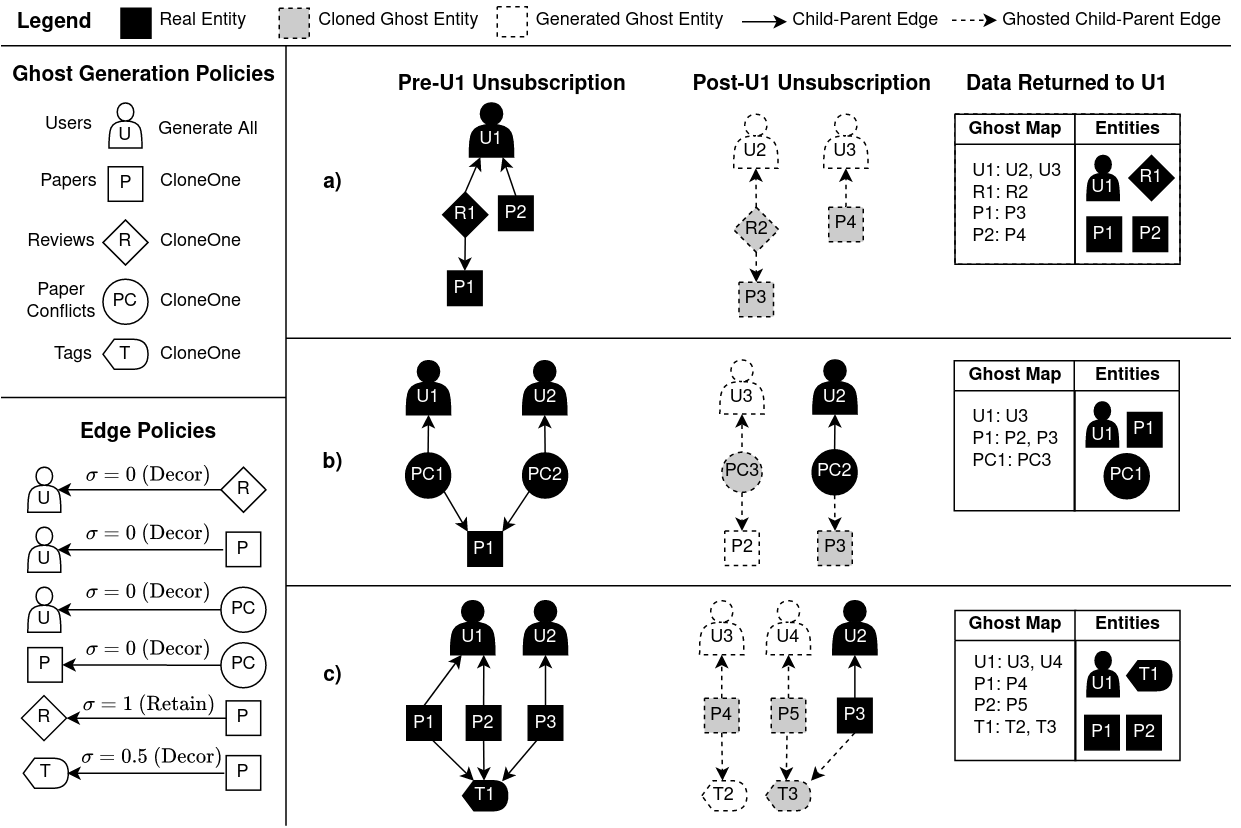
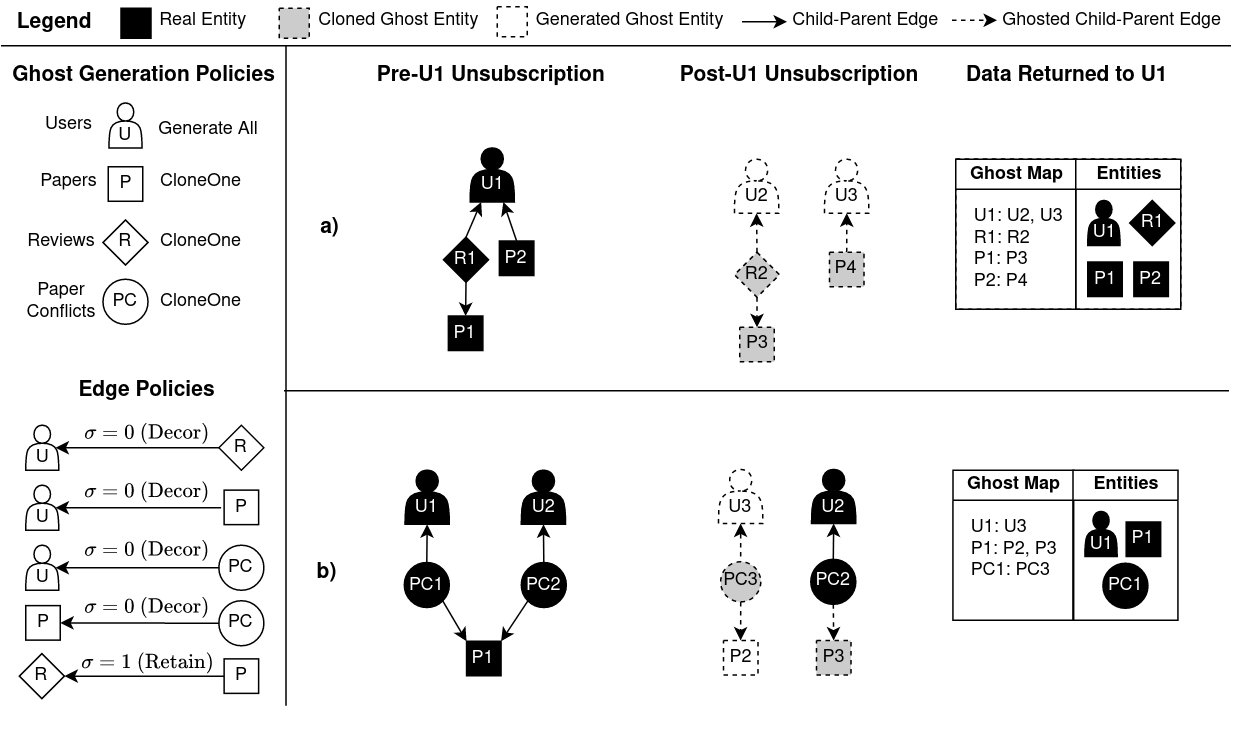
figure of algorithm

diff --git a/hotos21/design.tex b/hotos21/design.tex
@@ -1,29 +1,6 @@
 %-------------------------------------------------------------------------------
 \section{Design}
 %-------------------------------------------------------------------------------
-\begin{figure*}[ht!]
-    \centering
-    \includegraphics[width=\textwidth]{img/decor_hotcrp}
-
-    \caption{Pre- and post-unsubscription state of user, paper, review, paper conflict, and paper
-    tag entities based on a simplified variant of the HotCRP schema. 
-    For clarity, ghost generation policies are per-entity instead of per-entity
-    attribute, and tags are directly correlated with papers instead of connected via paper-tag
-    entities. \\ \\ 
-    \textbf{(a)} \sys decorrelates user-review and user-paper edges, and retains
-    review-paper edges, generating ghost users randomly, but cloning each review and paper. \\ \\
-    \textbf{(b)} \sys decorrelates user-conflict edges and sensitive conflict-paper edges. The ghost
-    paper associated with non-sensitive conflicts is a clone of the original; \sys generates a
-    default placeholder paper as the ghost paper parent for the sensitive conflict.  \\ \\
-    \textbf{(c)} \sys decorrelates paper-tag edges only enough that the proportion of sensitive
-    papers is at most the sensitivity threshold of 0.5. \sys retains one correlation between a
-    sensitive paper (P2) and the parent tag T1, and decorrelates the other paper (P1) from T1.  \sys
-    clones each sensitive paper to generate ghosts P4 and P5. \sys generates a cloned ghost tag T3
-    to remain associated with papers P3 and P5, and creates a default placeholder tag T2 as a ghost
-    parent tag for paper P4.}
-    \label{fig:hotcrp}
-\end{figure*}
-
 \sys's design allows developers to capture exactly which data contents, and which data correlations may be
 identity-sensitive. \sys models an application's data as a graph of \emph{entity} nodes and edges.
 Each entity type corresponds to an application datatable, such as a users, papers, or reviews table.
@@ -220,8 +197,20 @@ reduces the amount of user-side storage required for resubscription when the dat
 re-initialized, is simply too large to store, or plays no essential role in using the application.
 
 \subsection{\sys's Execution Algorithm}
+\begin{figure*}[ht!]
+    \centering
+    \includegraphics[width=\textwidth]{img/algo}
+
+    \caption{Stages of \sys's execution when unsubscribing user U1. In this example with users, papers,
+    and tags, \sys decorrelates paper-tag edges only enough that the proportion of sensitive papers
+    is at most the sensitivity threshold of 0.5, retaining one correlation between a sensitive
+    paper P2 and the parent tag T1, and decorrelating the other sensitive paper P1 from the tag.}
+    \label{fig:algo}
+\end{figure*}
+
+
 Given an application's schema and unsubscription policy, and an entity to be decorrelated as input,
-\sys executes unsubscription as follows:
+\sys executes unsubscription as follows. Figure~\ref{fig:algo} illustrates each step.
 \begin{enumerate}
     \item \textbf{Parent-Child Traversal:} \sys traverses the entity graph starting from the input entity,
         going down parent to child edges (and halting if it detects a cycle). 
@@ -241,10 +230,7 @@ Given an application's schema and unsubscription policy, and an entity to be dec
         be decorrelated, and rewrites the child's edge attribute to be the ghost parent's
         identifier. If any edges are retained, \sys generates a ghost parent entity to replace the
         parent.
-       
-        Once \sys reaches the leaf children, \sys generates a ghost child entity to replace this
-        leaf.
-
+      
     \item \textbf{Child-Parent Edge Policy Application:} 
         Next, \sys takes the children of all traversed edge instances, and considers the set of
         edges from these children to other parents \emph{not} traversed by \sys during the first
@@ -272,20 +258,46 @@ Given an application's schema and unsubscription policy, and an entity to be dec
         parent-to-child direction. This allows \sys to retain links if \emph{only the
         child} is sensitive, but decorrelate or remove the link if \emph{both} the
         child and parent are sensitive. For example, perhaps a user wants to ensure that they are
-        decorrelated from their reviews, but correlations of the review to the review's recipients can
-        still be retained.
+        decorrelated from their reviews, but correlations between the review and the the paper
+        authors can still be retained.
+
+    \item \textbf{Anonymizing Leaf Children:}
+        If any sensitive children that are leaves (have no children) remain, \sys generates a ghost child entity to replace this leaf.
+
+    \item \textbf{Returning User Data:} \sys collects all removed entities that have either been
+        replaced by ghost entities, or deleted entirely from the graph. \sys also records all
+        generated ghost entity identifiers, and which ghost entities replaced which real entity.
+        \sys returns both the removed entity data and this ghost entity metadata to the user.
 \end{enumerate}
 
 Note that \sys must decide \emph{which} ghost becomes the clone of the template entity when the
 developer selects a \texttt{CloneOne} ghosting policy. \sys always associates the cloned ghost with
-as many non-sensitive entities as possible. For example, if \sys decorrelates sensitive papers from
-a parent tag with a \texttt{CloneOne} policy, \sys clones the template to produce the ghost tag that
-remains associated with non-sensitive papers (as shown in Figure~\ref{fig:hotcrp}c). This decision
-ensures that any subscribed users and unsensitive application data remain as unaffected as possible
-by another user's unsubscription. To optimize \texttt{CloneOne} policies, \sys can simply retain the
-original template entity instead of producing a cloned ghost.
+as many non-sensitive entities as possible. For example, as shown in Figure~\ref{fig:algo} step 3b,
+if \sys decorrelates sensitive papers from a parent tag with a \texttt{CloneOne} policy, \sys
+chooses the ghost tag that remains associated with non-sensitive papers to be the clone. This
+decision ensures that any subscribed users and unsensitive application data remain as unaffected as
+possible by another user's unsubscription. To optimize \texttt{CloneOne} policies, \sys can simply
+retain the original template entity instead of producing a cloned ghost.
 
 \subsection{HotCRP's Unsubscription Policy}
+
+\begin{figure*}[ht!]
+    \centering
+    \includegraphics[width=\textwidth]{img/decor_hotcrp}
+
+    \caption{Pre- and post-unsubscription state of user, paper, review, paper conflict, and paper
+    tag entities based on a simplified variant of the HotCRP schema. 
+    For clarity, ghost generation policies are per-entity instead of per-entity
+    attribute. \\ \\ 
+    \textbf{(a)} \sys decorrelates user-review and user-paper edges, and retains
+    review-paper edges, generating ghost users randomly, but cloning each review and paper. \\ \\
+    \textbf{(b)} \sys decorrelates user-conflict edges and sensitive conflict-paper edges. The ghost
+    paper associated with non-sensitive conflicts is a clone of the original; \sys generates a
+    default placeholder paper as the ghost paper parent for the sensitive conflict.  \\ \\
+    }
+    \label{fig:hotcrp}
+\end{figure*}
+
 We next show how \sys's design works in the context of an unsubscription policy for HotCRP. 
 HotCRP entities include users (reviewers and paper authors), papers, paper reviews, and paper
 conflicts. There are a total of 25 entities, with 48 edge types between entities.
@@ -340,15 +352,15 @@ paper, allowing HotCRP to retain information about the paper and non-user-relate
 the system.  
 Figure~\ref{fig:hotcrp}b shows how \sys unsubscribes a user with paper conflicts. 
 
-The HotCRP developer may also determine that tags can identify a user if only that user's papers are
-associated with that tag. The developer thus specifies that paper-tag edges have a sensitivity
-threshold of 0.5: at most half the papers with that tag can be associated with the unsubscribing
-user. \sys decorrelates these edges until the threshold is met; all ghost tag attributes are
-generated using a clone-one ghosting policy.  Figure~\ref{fig:hotcrp}c shows how \sys partially
-decorrelates a user's papers from a shared tag parent.
-\lyt{I know this doesn't exactly reflect HotCRP's schema (which uses PaperTags to link papers to
-tags), but I found this example the most convincing to demonstrate partial decorrelation. This may
-be more relevant in a different application than HotCRP.}
+%The HotCRP developer may also determine that tags can identify a user if only that user's papers are
+%associated with that tag. The developer thus specifies that paper-tag edges have a sensitivity
+%threshold of 0.5: at most half the papers with that tag can be associated with the unsubscribing
+%user. \sys decorrelates these edges until the threshold is met; all ghost tag attributes are
+%generated using a clone-one ghosting policy.  Figure~\ref{fig:hotcrp}c shows how \sys partially
+%decorrelates a user's papers from a shared tag parent.
+%\lyt{I know this doesn't exactly reflect HotCRP's schema (which uses PaperTags to link papers to
+%tags), but I found this example the most convincing to demonstrate partial decorrelation. This may
+%be more relevant in a different application than HotCRP.}
 
 The final part of the unsubscription policy ensures that review and paper artifacts remain present
 and correctly linked with other application entities: (subscribed) reviewers should still see the
